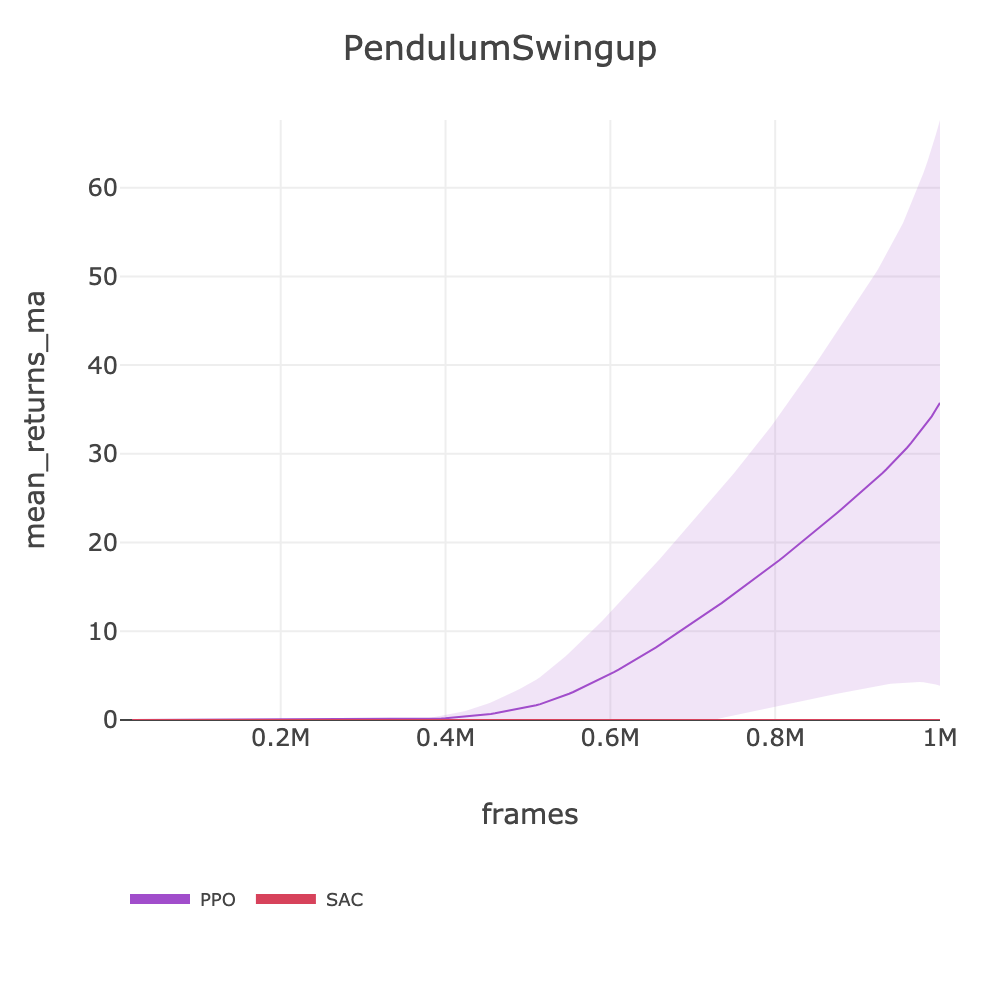
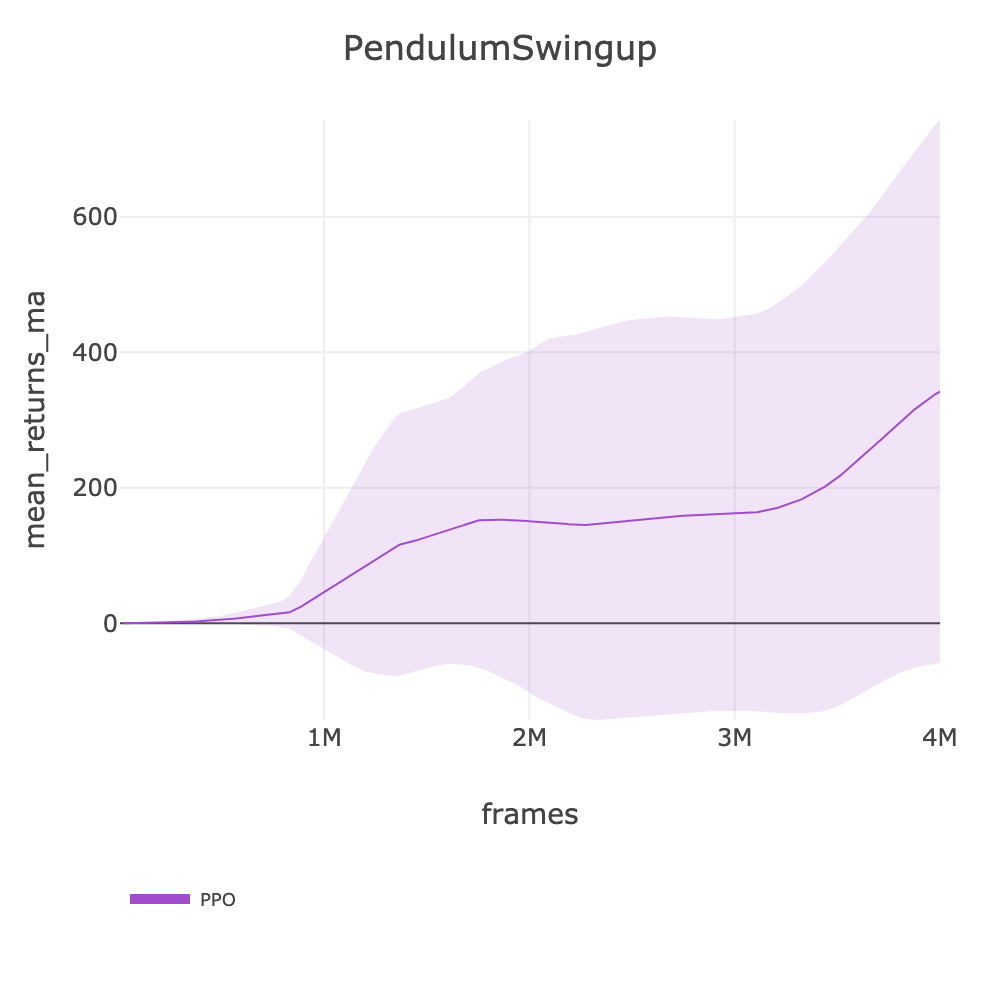
feat: Phase 5 PendulumSwingup PPO 4M (342.23), up from 35.74

diff --git a/docs/BENCHMARKS.md b/docs/BENCHMARKS.md
@@ -809,7 +809,7 @@ source .env && slm-lab run-remote --gpu -s env=playground/CartpoleBalance -s max
 | playground/HumanoidRun | SAC | 7.90 | ~11 | ~335 (fast/64e) | 4M | ~3.4h | [sac_playground_arc_fast_humanoidrun_2026_03_07_001036](https://huggingface.co/datasets/SLM-Lab/benchmark-dev/tree/main/data/sac_playground_arc_fast_humanoidrun_2026_03_07_001036) |
 | playground/HumanoidStand | SAC | 26.44 | ~514 | ~329 (fast/64e) | 2M | ~1.7h | [sac_playground_arc_fast_humanoidstand_2026_03_07_000958](https://huggingface.co/datasets/SLM-Lab/benchmark-dev/tree/main/data/sac_playground_arc_fast_humanoidstand_2026_03_07_000958) |
 | playground/HumanoidWalk | SAC | 10.33 | ~281 | ~329 (fast/64e) | 2M | ~1.7h | [sac_playground_arc_fast_humanoidwalk_2026_03_06_221222](https://huggingface.co/datasets/SLM-Lab/benchmark-dev/tree/main/data/sac_playground_arc_fast_humanoidwalk_2026_03_06_221222) |
-| playground/PendulumSwingup | PPO | 35.74 | ~959 | ~2000 (256e) | 1M | ~0.1h | [ppo_playground_arc_pendulumswingup_2026_03_06_094355](https://huggingface.co/datasets/SLM-Lab/benchmark-dev/tree/main/data/ppo_playground_arc_pendulumswingup_2026_03_06_094355) |
+| playground/PendulumSwingup | PPO | 342.23 | ~959 | ~300 | 4M | ~3.7h | [ppo_playground_arc_pendulumswingup_2026_03_07_082244](https://huggingface.co/datasets/SLM-Lab/benchmark-dev/tree/main/data/ppo_playground_arc_pendulumswingup_2026_03_07_082244) |
 | | SAC | 0.00 | | ~350 (fast/64e) | 1M | ~0.8h | [sac_playground_arc_pendulumswingup_2026_03_06_150813](https://huggingface.co/datasets/SLM-Lab/benchmark-dev/tree/main/data/sac_playground_arc_pendulumswingup_2026_03_06_150813) |
 | playground/PointMass | PPO | 493.79 | ~988 | ~2000 (256e) | 500K | ~0.1h | [ppo_playground_arc_pointmass_2026_03_06_105141](https://huggingface.co/datasets/SLM-Lab/benchmark-dev/tree/main/data/ppo_playground_arc_pointmass_2026_03_06_105141) |
 | playground/ReacherEasy | PPO | 285.63 | ~945 | ~2000 (256e) | 500K | ~0.1h | [ppo_playground_arc_reachereasy_2026_03_06_102444](https://huggingface.co/datasets/SLM-Lab/benchmark-dev/tree/main/data/ppo_playground_arc_reachereasy_2026_03_06_102444) |
